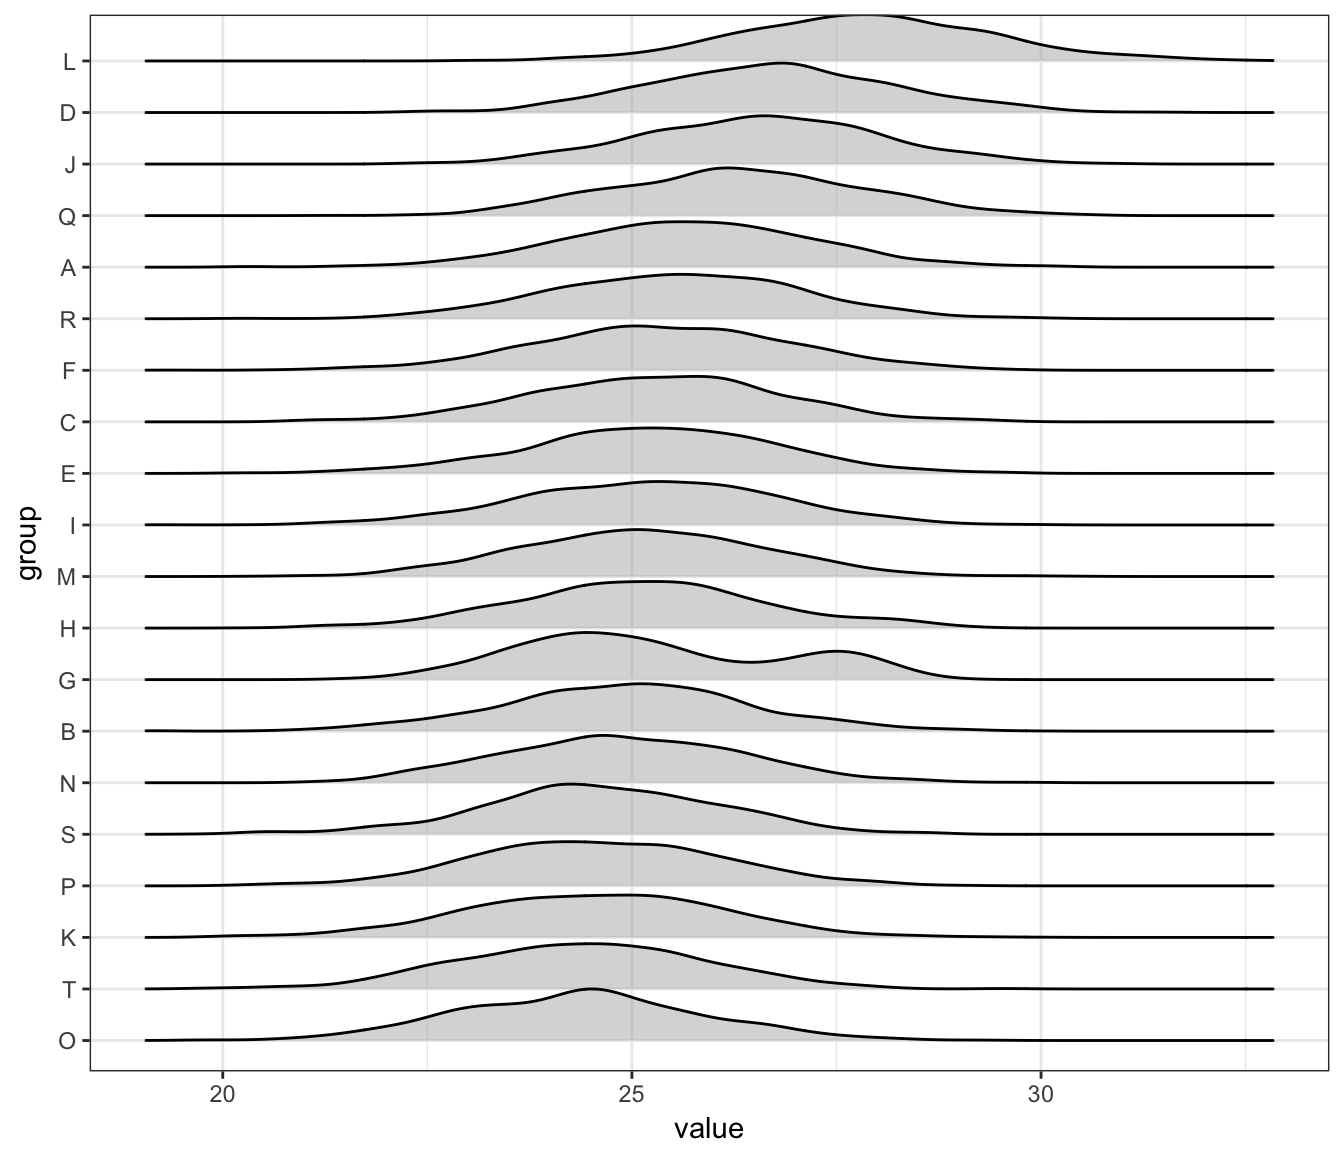
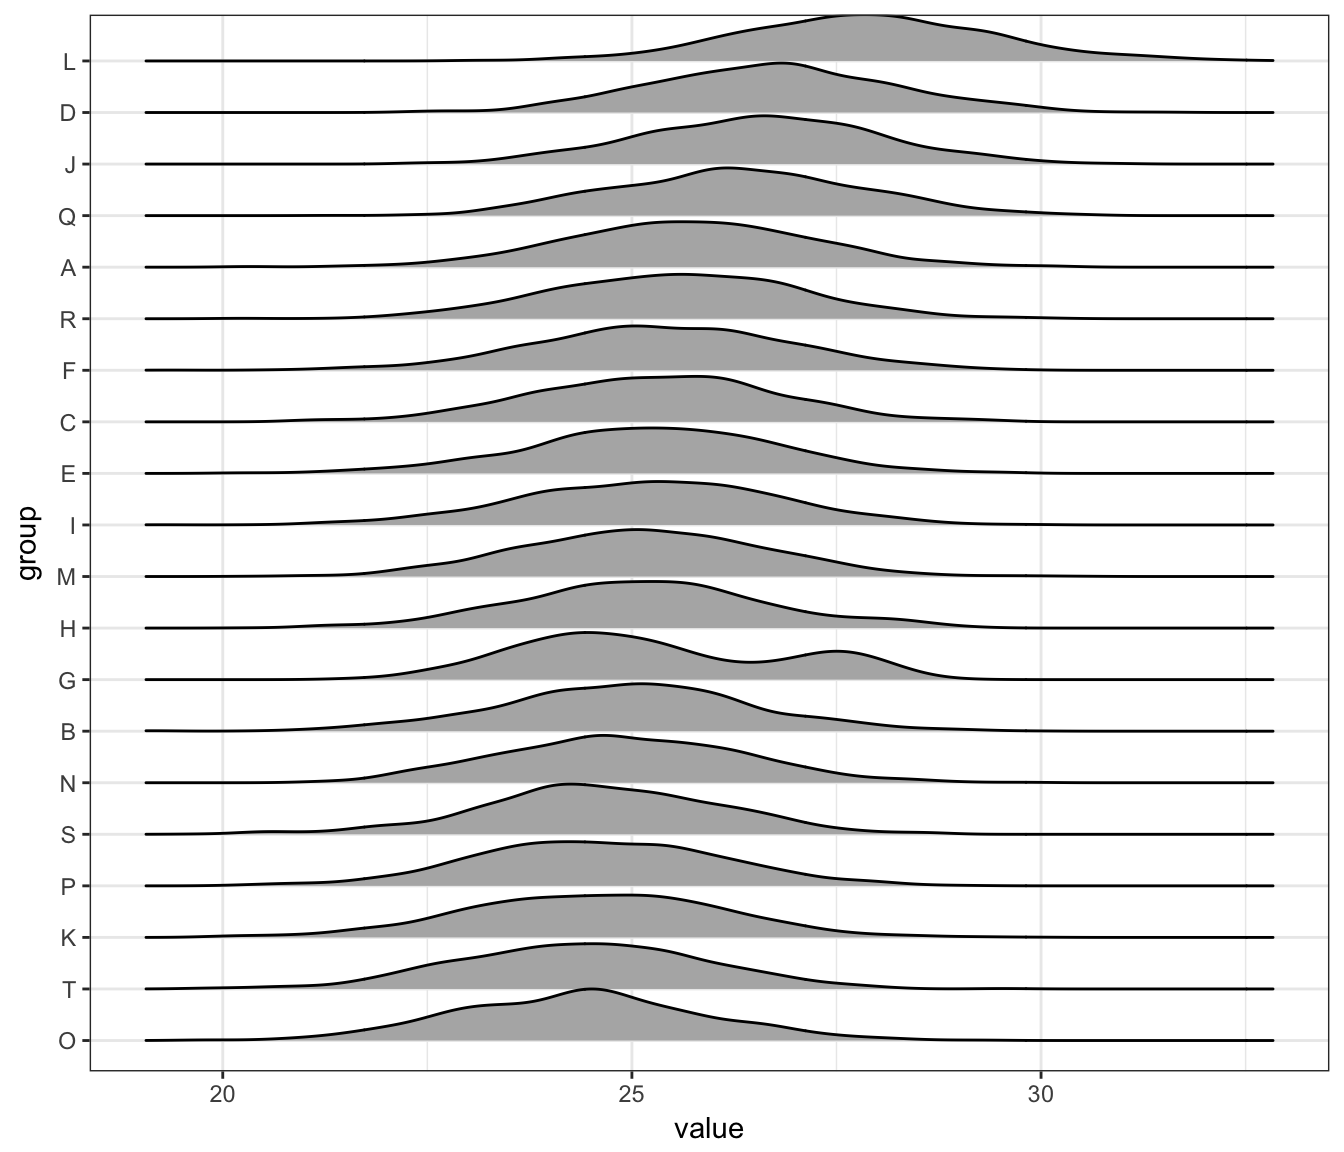
addding plots

Changed region(s): [[0.25, 0.0, 0.8438, 0.9062]]

diff --git a/content/post/2017-07-13-the-joy-of-no-more-violin-plots.html b/content/post/2017-07-13-the-joy-of-no-more-violin-plots.html
@@ -37,6 +37,6 @@ tags:
 <pre class="r"><code>library(ggjoy)
 dat %&gt;% mutate(group = reorder(group, value, median)) %&gt;%
   ggplot(aes(x=value, y=group, height=..density..)) +
-  geom_joy(scale=1, alpha=0.5)</code></pre>
+  geom_joy(scale=1)</code></pre>
 <p><img src="/post/2017-07-13-the-joy-of-no-more-violin-plots_files/figure-html/joy-1.png" width="672" /></p>
 <p>Note how quickly we notice the bimodal plot.</p>
